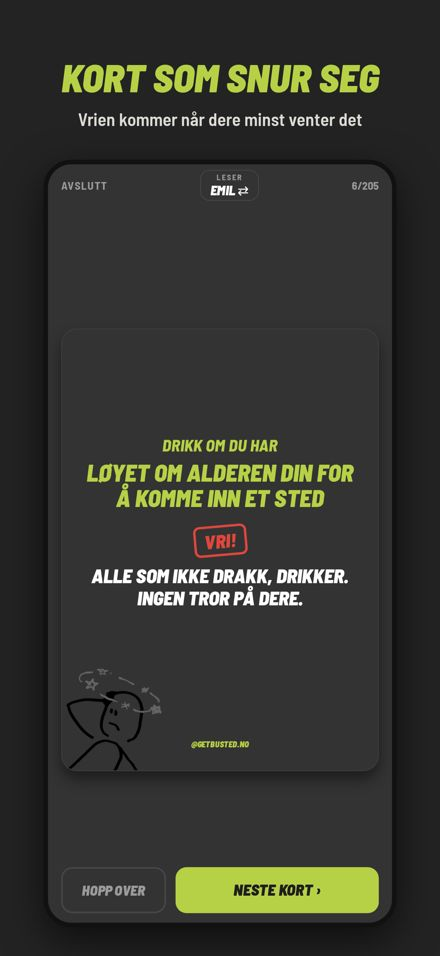
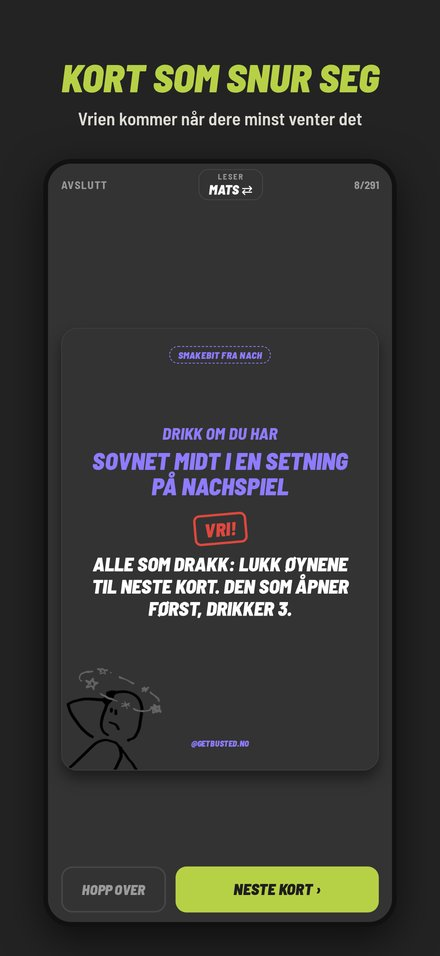
Riktig handle @getbusted.no, fjern fysisk kortstokk fra FAQ, nye skjermbilder uten Emil
Claude-Session: https://claude.ai/code/session_01DZ718GXTXVtGR8cwb9rukA

diff --git a/index.html b/index.html
@@ -122,11 +122,10 @@
   <div class="wrap" style="max-width:820px">
     <p class="kicker">Spørsmål</p>
     <h2>Ofte spurt</h2>
-    <details><summary>Når kommer appen?</summary><p>Vi jobber mot lansering på iPhone og Android i løpet av høsten. Følg oss på Instagram og TikTok (@getbusted) for å få beskjed først.</p></details>
+    <details><summary>Når kommer appen?</summary><p>Vi jobber mot lansering på iPhone og Android i løpet av høsten. Følg oss på Instagram og TikTok (@getbusted.no) for å få beskjed først.</p></details>
     <details><summary>Må man drikke alkohol?</summary><p>Nei. Velg alkoholfri modus, så blir alle slurker til poeng. Og det er alltid lov å stå over.</p></details>
     <details><summary>Hvor mange kan spille?</summary><p>Fra 2 til 30. Store grupper får flere kort som gjelder alle samtidig.</p></details>
     <details><summary>Er det abonnement?</summary><p>Nei. Original er gratis, og alle kjøp er engangskjøp.</p></details>
-    <details><summary>Finnes det en fysisk kortstokk?</summary><p>Den kommer. Boksen får en kode som låser opp alt i appen.</p></details>
   </div>
 </section>
 </main>
